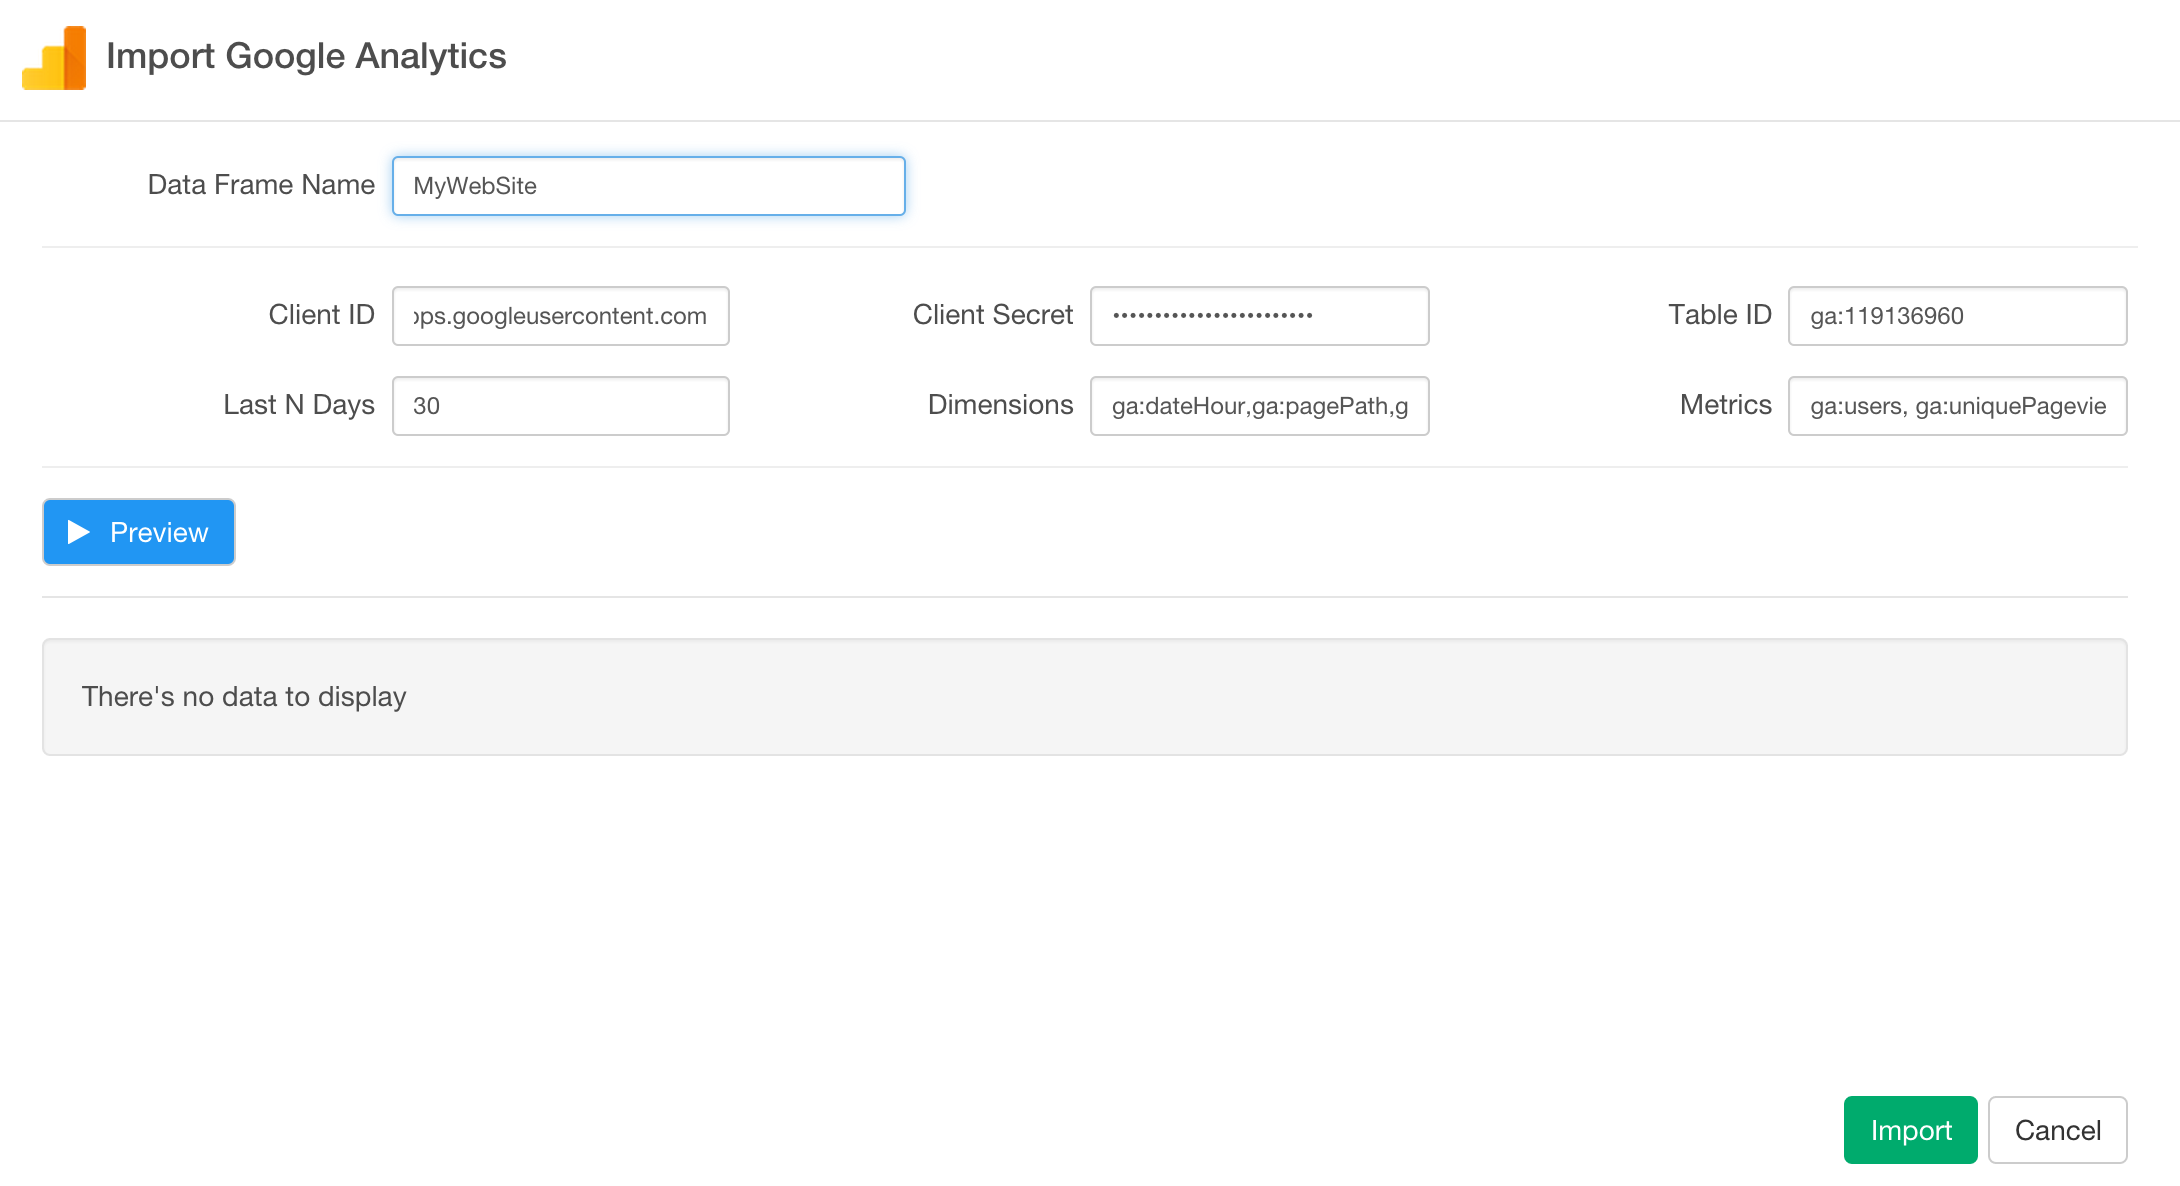
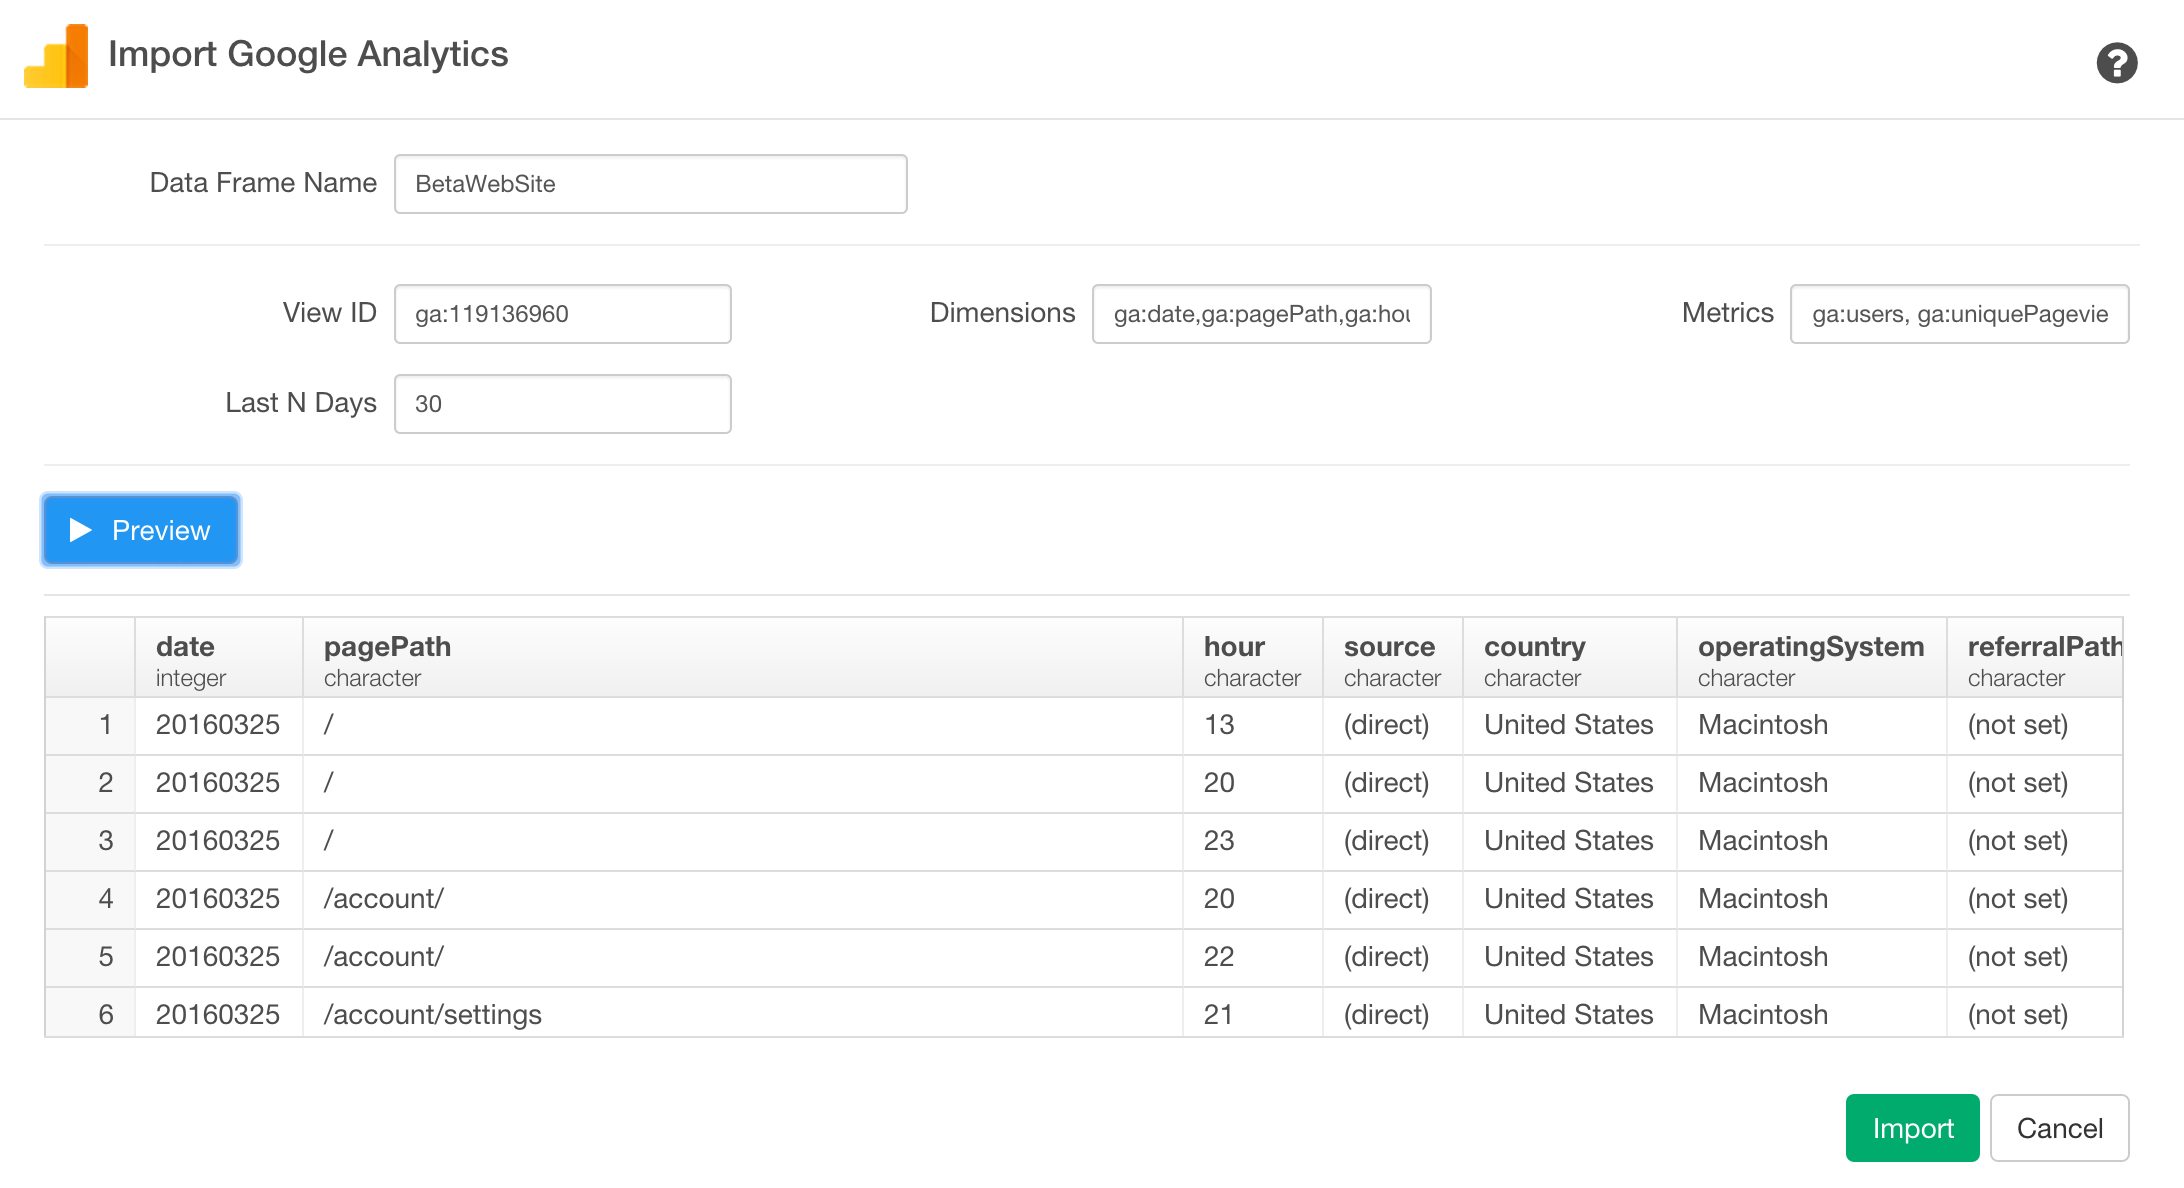
GA updates.

diff --git a/import/google-analytics.md b/import/google-analytics.md
@@ -2,54 +2,14 @@
 
 You need to have a few information before you start adding Google Analytics data in Exploratory.
 
-- Client ID
-- Client Secret
 - View ID
 - Dimensions
-- Metrics 
+- Metrics
+
+## Obtain information for Google Analytics parameters
 
 
-## 1. Get Client ID and Client Secrete
-
-Go to [Google Developers Console](https://console.developers.google.com/project)
-
-Create a New Project and Open it
-
-![](images/google-analytics-api-setting.png)
-
-![](images/google-analytics-api-setting2.png)
-
-Make Analytics API enabled for your project
-
-![](images/google-analytics-api-setting3.png)
-
-![](images/google-analytics-api-setting4.png)
-
-Click 'Credentials' to go to Credentials setting page.
-
-![](images/google-analytics-api-setting5.png)
-
-Create OAuth Client ID
-
-![](images/google-analytics-api-setting6.png)
-
-You will be asked to setup 'consent screen' first, so click 'Configure consent screen' button to set that up.
-
-![](images/google-analytics-api-setting7.png)
-
-Set a product name for Consent Screen and click 'Save' button to save.
-
-![](images/google-analytics-api-setting7_1.png)
-
- In Credentials setup UI, select 'Other' for Application type and type any name for Name, and click 'Create' button
-
-![](images/google-analytics-api-setting7_2.png)
-
-Now, you get Client ID and Client Secret.
-
-![](images/google-analytics-api-setting8.png)
-
-## 2. Get Table ID (View ID)
+### 1. Get Table ID (View ID)
 
 You need this information to identify which of your Google Analytics monitoring web sites you want to use. You can get this information from Google Analytics page.
 
@@ -66,13 +26,43 @@ Now you can find View ID.
 
 
 
-## 3. Decide which Dimensions and Measures you need for Google Analytics data
+### 2. Decide which Dimensions and Measures you need for Google Analytics data
 
-You can use [Google Analytics Query Explorer tool](https://ga-dev-tools.appspot.com/query-explorer/) to find the dimensions and measures you would be interesting.
+You can use [Google Analytics Query Explorer tool](https://ga-dev-tools.appspot.com/query-explorer/) to find the dimensions and measures you would be interested.
 
+They are something like this.
+
+**Dimensions**  
+ga:dateHour, ga:pagePath, ga:pageTitle, ga:source, ga:country, ga:operatingSystem, ga:referralPath
+
+**Metrics**  
+ga:users, ga:uniquePageviews,ga:pageviews  
+
+Google Analytics Query Explorer
 
 ![](images/google-query-explorer.png)
 
 ![](images/google-query-explorer2.png)
 
 Take a look at [Query Parameter reference page](https://developers.google.com/analytics/devguides/reporting/core/v3/reference) for the detail about the query parameters.
+
+## Import Google Analytics data
+
+Select 'Import Remote Data' from Add New Data Frame menu.
+
+![](images/import-remote-data.png)
+
+Click Google Analytics
+
+![](images/google-analytics-setting1.png)
+
+Type Data Frame name, and type the following parameters.
+
+- View ID
+- Dimensions
+- Metrics
+- Last N days (Default is 30)
+
+![](images/google-analytics-setting2.png)
+
+Click Preview button to see the data back from Google Analytics. If it looks ok, then you can click 'Import' to import the data into Exploratory. 

diff --git a/import/google-analytics_old.md b/import/google-analytics_old.md
@@ -1,0 +1,104 @@
+# Google Analytics Data
+
+You need to have a few information before you start adding Google Analytics data in Exploratory.
+
+- Client ID
+- Client Secret
+- View ID
+- Dimensions
+- Metrics
+
+## Obtain information for Google Analytics parameters
+
+### 1. Get Client ID and Client Secrete
+
+Go to [Google Developers Console](https://console.developers.google.com/project)
+
+Create a New Project and Open it
+
+![](images/google-analytics-api-setting.png)
+
+![](images/google-analytics-api-setting2.png)
+
+Make Analytics API enabled for your project
+
+![](images/google-analytics-api-setting3.png)
+
+![](images/google-analytics-api-setting4.png)
+
+Click 'Credentials' to go to Credentials setting page.
+
+![](images/google-analytics-api-setting5.png)
+
+Create OAuth Client ID
+
+![](images/google-analytics-api-setting6.png)
+
+You will be asked to setup 'consent screen' first, so click 'Configure consent screen' button to set that up.
+
+![](images/google-analytics-api-setting7.png)
+
+Set a product name for Consent Screen and click 'Save' button to save.
+
+![](images/google-analytics-api-setting7_1.png)
+
+ In Credentials setup UI, select 'Other' for Application type and type any name for Name, and click 'Create' button
+
+![](images/google-analytics-api-setting7_2.png)
+
+Now, you get Client ID and Client Secret.
+
+![](images/google-analytics-api-setting8.png)
+
+### 2. Get Table ID (View ID)
+
+You need this information to identify which of your Google Analytics monitoring web sites you want to use. You can get this information from Google Analytics page.
+
+Go to [Google Analytics web page](https://analytics.google.com), and go to Admin page.
+
+![](images/google-analytics-tableid2.png)
+
+Go to View Setting for the view (web site) you're interested in.
+
+![](images/google-analytics-tableid3.png)
+
+Now you can find View ID.
+![](images/google-analytics-tableid4.png)
+
+
+
+### 3. Decide which Dimensions and Measures you need for Google Analytics data
+
+You can use [Google Analytics Query Explorer tool](https://ga-dev-tools.appspot.com/query-explorer/) to find the dimensions and measures you would be interesting.
+
+
+![](images/google-query-explorer.png)
+
+![](images/google-query-explorer2.png)
+
+Take a look at [Query Parameter reference page](https://developers.google.com/analytics/devguides/reporting/core/v3/reference) for the detail about the query parameters.
+
+## Import Google Analytics data
+
+Select 'Import Remote Data' from Add New Data Frame menu.
+
+![](images/import-remote-data.png)
+
+Click Google Analytics
+
+![](images/google-analytics-setting1.png)
+
+Type Data Frame name, and type the following parameters.
+
+- Client ID
+- Client Secret
+- View ID
+- Last N days
+- Dimensions
+- Metrics
+
+![](images/google-analytics-setting1.png)
+
+Click Preview button to
+
+Error: ignoring SIGPIPE signal
